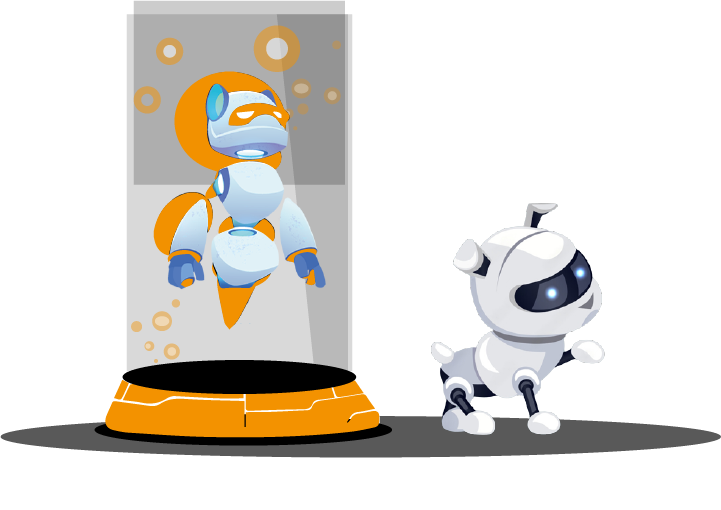
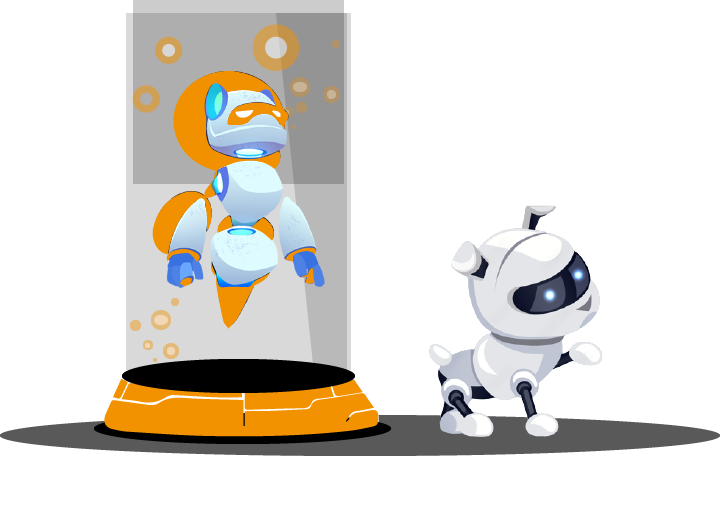
eComet Portfolio

diff --git a/components/Common/Testimonials.js b/components/Common/Testimonials.js
@@ -3,13 +3,63 @@ import { Swiper, SwiperSlide } from "swiper/react";
 import { Navigation, Autoplay } from "swiper";
 
 const testimonialsData = [
- 
+  {
+    image: "/images/clients/client3.jpg",
+    name: "Lexi Ehrman",
+    designation: "Head of Technology",
+    feedbackText:
+      "eComet stands out as a top-tier software house. They're not just problem solvers; they're incredibly creative ones. Reliable, smart, and fun to work with, they're truly the full package.",
+
+    rating: [
+      {
+        iconName: "bx bxs-star",
+      },
+      {
+        iconName: "bx bxs-star",
+      },
+      {
+        iconName: "bx bxs-star",
+      },
+      {
+        iconName: "bx bxs-star",
+      },
+      {
+        iconName: "bx bxs-star",
+      },
+    ],
+  },
+
   {
     image: "/images/clients/client2.jpg",
     name: "Oscar Adams",
     designation: "InnovateTech Ventures",
     feedbackText:
       "Quick, efficient communication and execution! Went from idea to completion in just hours. Impressive work! Clean, clear code. Seller was nice, direct, and easy to work with. Thank you!",
+
+    rating: [
+      {
+        iconName: "bx bxs-star",
+      },
+      {
+        iconName: "bx bxs-star",
+      },
+      {
+        iconName: "bx bxs-star",
+      },
+      {
+        iconName: "bx bxs-star",
+      },
+      {
+        iconName: "bx bxs-star",
+      },
+    ],
+  },
+  {
+    image: "/images/clients/client4.jpg",
+    name: "David Ko",
+    designation: "CEO - Drganja.com",
+    feedbackText:
+      "eComet's seamless interface and centralized task management are transformative for our e-commerce operations—efficiency redefined for unparalleled productivity.",
 
     rating: [
       {
@@ -54,58 +104,7 @@ const testimonialsData = [
       },
     ],
   },
-  
-  {
-    image: "/images/clients/client3.jpg",
-    name: "Lexi Ehrman",
-    designation: "Head of Technology",
-    feedbackText:
-      "eComet stands out as a top-tier software house. They're not just problem solvers; they're incredibly creative ones. Reliable, smart, and fun to work with, they're truly the full package.",
 
-    rating: [
-      {
-        iconName: "bx bxs-star",
-      },
-      {
-        iconName: "bx bxs-star",
-      },
-      {
-        iconName: "bx bxs-star",
-      },
-      {
-        iconName: "bx bxs-star",
-      },
-      {
-        iconName: "bx bxs-star",
-      },
-    ],
-  },
-  
-  {
-    image: "/images/clients/client4.jpg",
-    name: "David Ko",
-    designation: "CEO - Drganja.com",
-    feedbackText:
-      "eComet's seamless interface and centralized task management are transformative for our e-commerce operations—efficiency redefined for unparalleled productivity.",
-
-    rating: [
-      {
-        iconName: "bx bxs-star",
-      },
-      {
-        iconName: "bx bxs-star",
-      },
-      {
-        iconName: "bx bxs-star",
-      },
-      {
-        iconName: "bx bxs-star",
-      },
-      {
-        iconName: "bx bxs-star",
-      },
-    ],
-  },
   {
     image: "/images/clients/1.jpg",
     name: "Alexander Nouveau",

diff --git a/styles/responsive.scss b/styles/responsive.scss
@@ -1785,9 +1785,9 @@ $border-radius: 4px;
                     width: 200px;
                 }
                 img:nth-child(4) {
-                    top: 80px;
+                    top: 201px;
                     right: 0;
-                    max-width: 150px;
+                    max-width: 267px;
                 }
             }
         }

diff --git a/styles/responsive.css b/styles/responsive.css
@@ -1394,9 +1394,9 @@
     width: 200px;
   }
   .main-banner-area.main-banner-area-one .banner-img img:nth-child(4) {
-    top: 80px;
+    top: 201px;
     right: 0;
-    max-width: 150px;
+    max-width: 267px;
   }
   .features-area .container {
     max-width: 930px;
